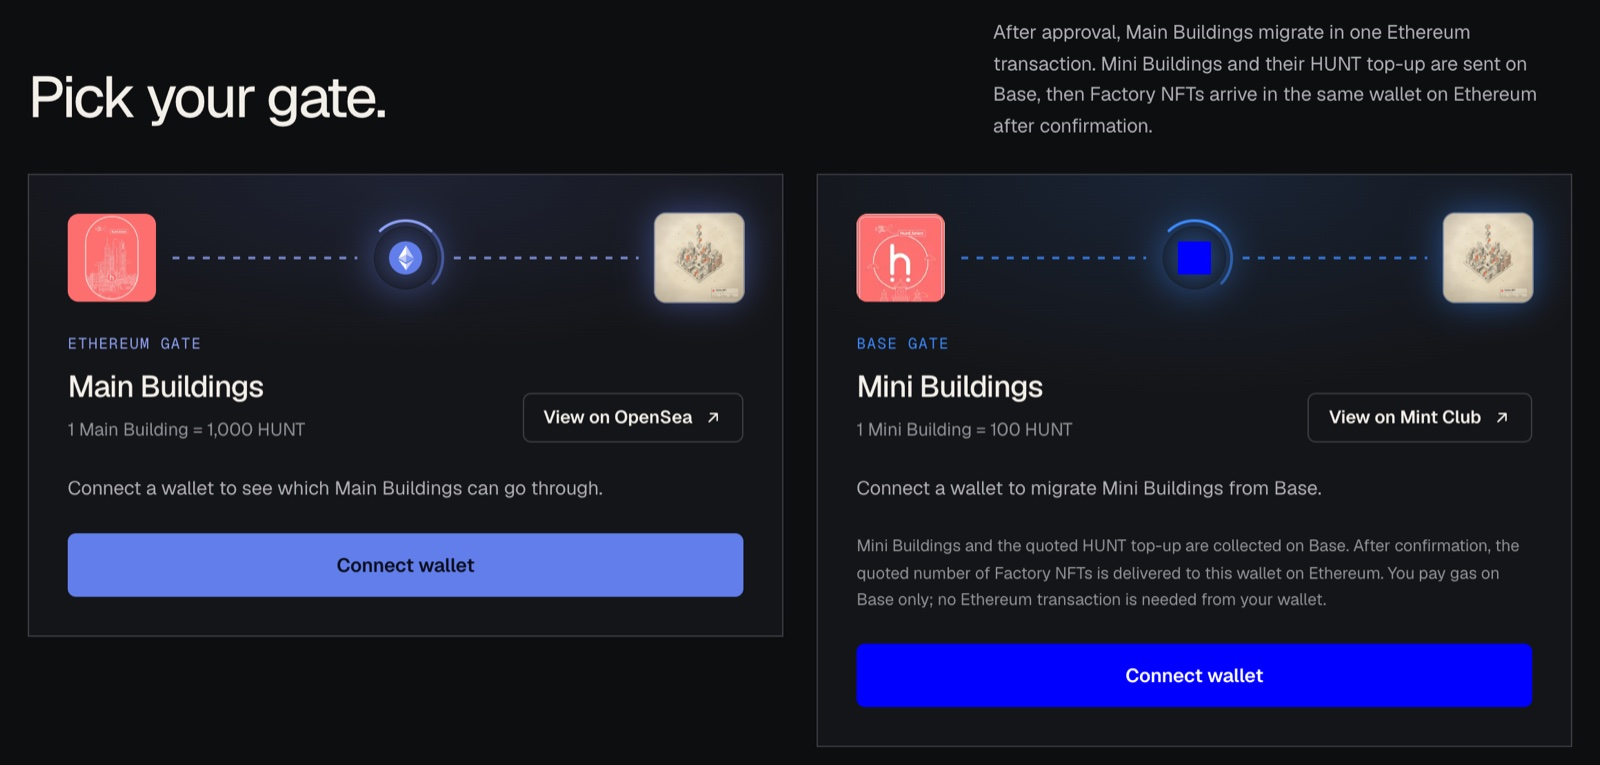
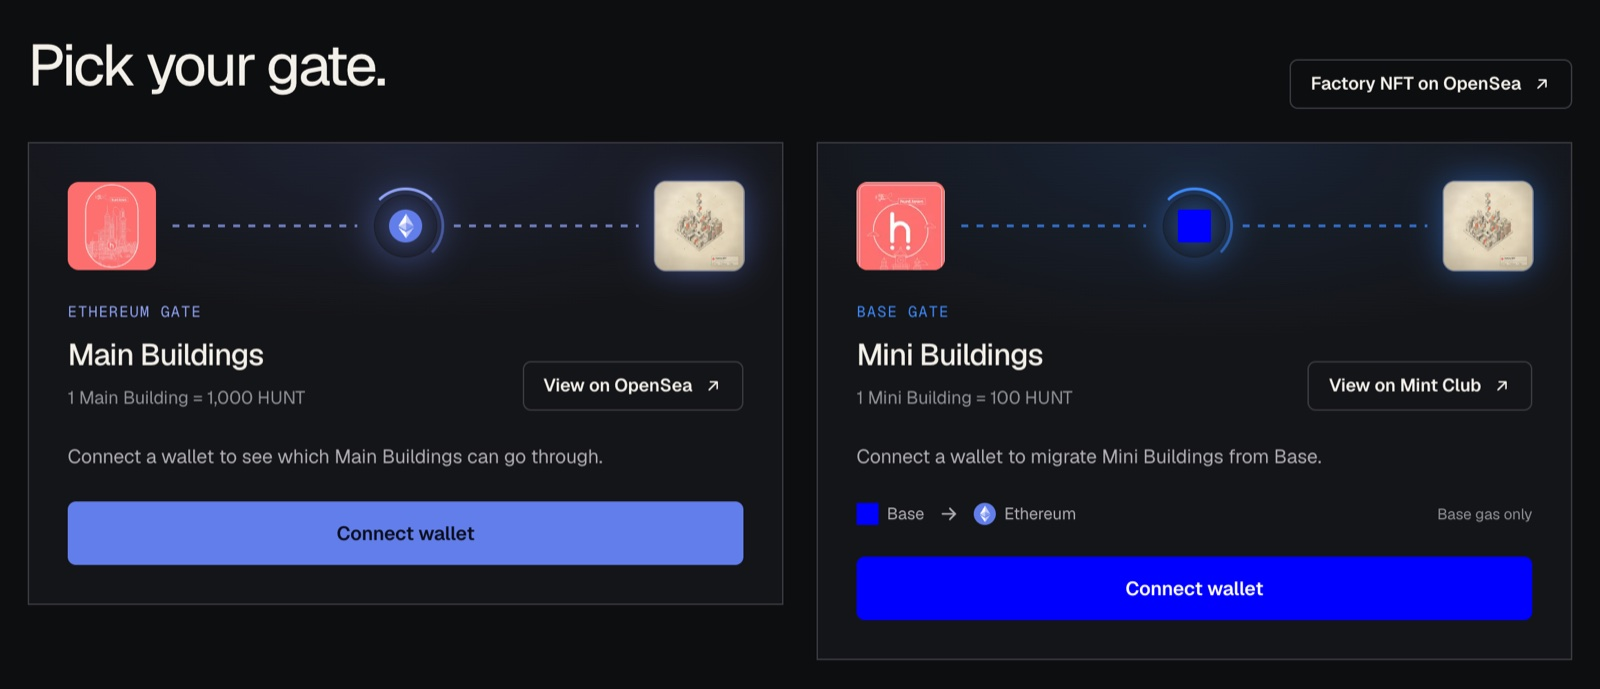
docs: Mini migration is open; add the Base collector and recapture the migrate page
Drop the not-opened lines, describe Base gas, same-address confirmation,
deposit recovery and how quotes fix the count, list the Mini Building
collector in Contracts and Links, and recapture the three migrate
screenshots from site release 0.1.8.

diff --git a/factory-nft/migrating-buildings.md b/factory-nft/migrating-buildings.md
@@ -3,18 +3,25 @@
 Building NFTs are Hunt Town's legacy NFTs. Holders can turn them into Factory NFTs. Each
 Building counts at a fixed HUNT value, and you add HUNT to reach whole Factory NFTs.
 
-Main Buildings migrate on Ethereum. Mini Building migration from Base has not opened yet.
+Main Buildings migrate on Ethereum. Mini Buildings migrate from Base.
 
 <figure><img src="../.gitbook/assets/site/site-migrate-hero.jpg" alt="The migration portal on hunt.town"><figcaption><p>The migration portal</p></figcaption></figure>
 
 ## The rules
 
-- **One way.** Migrated Buildings do not come back.
+- **One way.** Migrated Buildings do not come back. Factory NFTs can be burned for 95% of
+  their NAV.
 - **One chain at a time.** Main Buildings migrate on Ethereum in one transaction. Mini
   Buildings and their top-up are sent on Base.
 - **Whole NFTs only.** There are no partial Factory NFTs and no refunds.
 - **Factory NFTs arrive on Ethereum,** whichever chain you migrate from. From Base, the team
-  confirms the deposit and then mints them to the same wallet on Ethereum.
+  confirms the deposit and then mints them to the same wallet address on Ethereum. You pay gas
+  on Base only.
+- **Same address on Ethereum.** Before a Base deposit, confirm that you control the same
+  address on Ethereum. This matters most for smart contract wallets, whose address can differ
+  between chains.
+- **Base deposits can be found again.** If you lose track of one, the migration page finds it
+  from its Base transaction hash.
 
 | | Main Building | Mini Building |
 | --- | --- | --- |
@@ -40,12 +47,18 @@ normally hold that HUNT back.
 The Buildings' HUNT value is divided by the current NAV per NFT and rounded up to whole
 Factory NFTs. The holder adds the difference in HUNT (the top-up), which is never refunded.
 
+You review a quote before you send anything.
+
+- **Main Buildings** use the NAV when the transaction runs, within the HUNT limit you set.
+- **Mini Buildings** are quoted when you deposit. The confirmed deposit fixes the number of
+  Factory NFTs and the top-up, even if NAV moves before delivery.
+
 At a NAV of 1,000 HUNT per NFT, one Main Building or ten Mini Buildings make one Factory NFT
 with no top-up. At 1,200 HUNT, ten Main Buildings plus 800 HUNT make nine Factory NFTs.
 
 Migrate at [hunt.town/migrate](https://hunt.town/migrate).
 
-<figure><img src="../.gitbook/assets/site/site-migrate-gates.jpg" alt="The Ethereum and Base gates"><figcaption><p>One gate per chain. The Base gate has not opened yet.</p></figcaption></figure>
+<figure><img src="../.gitbook/assets/site/site-migrate-gates.jpg" alt="The Ethereum and Base gates"><figcaption><p>One gate per chain</p></figcaption></figure>
 
 ## Where the HUNT comes from
 

diff --git a/reference/contracts.md b/reference/contracts.md
@@ -16,7 +16,8 @@ links in [Links & Resources](links.md) before transacting.
 | --- | --- | --- |
 | Factory NFT (ERC-1155, token id `0`, holds the vault's HUNT) | Ethereum | `0x961eA6C51c185958b1A11ad8335046988D1B5734` |
 | Factory zap router (mints with ETH, USDC, USDT or DAI through Uniswap v4) | Ethereum | `0x4556e496270636868A83d616A10DAa663C57352e` |
-| Building migrator (turns Main Buildings into Factory NFTs) | Ethereum | `0x9f9867A86e614f6CCD3fdc38Fb42B30894a63696` |
+| Building migrator (mints Factory NFTs for migrated Buildings) | Ethereum | `0x9f9867A86e614f6CCD3fdc38Fb42B30894a63696` |
+| Mini Building collector (takes Mini Buildings and their top-up for migration) | Base | `0xdB6F6849CEaD3D505bA525B1419B41Cbd27faFe7` |
 
 ## Mint Club V2
 

diff --git a/reference/links.md b/reference/links.md
@@ -85,6 +85,8 @@ See [Mint Club → Security & Audits](../mint-club/security-audits.md) for conte
   [etherscan.io](https://etherscan.io/address/0x4556e496270636868A83d616A10DAa663C57352e)
 - **Building migrator (Ethereum):**
   [etherscan.io](https://etherscan.io/address/0x9f9867A86e614f6CCD3fdc38Fb42B30894a63696)
+- **Mini Building collector (Base):**
+  [basescan.org](https://basescan.org/address/0xdB6F6849CEaD3D505bA525B1419B41Cbd27faFe7)
 - **Legacy: Main Building NFT (Ethereum):**
   [etherscan.io](https://etherscan.io/address/0x0c9Bb1ffF512a5B4F01aCA6ad964Ec6D7fC60c96)
 - **Legacy: Mini Building NFT (Base):**
